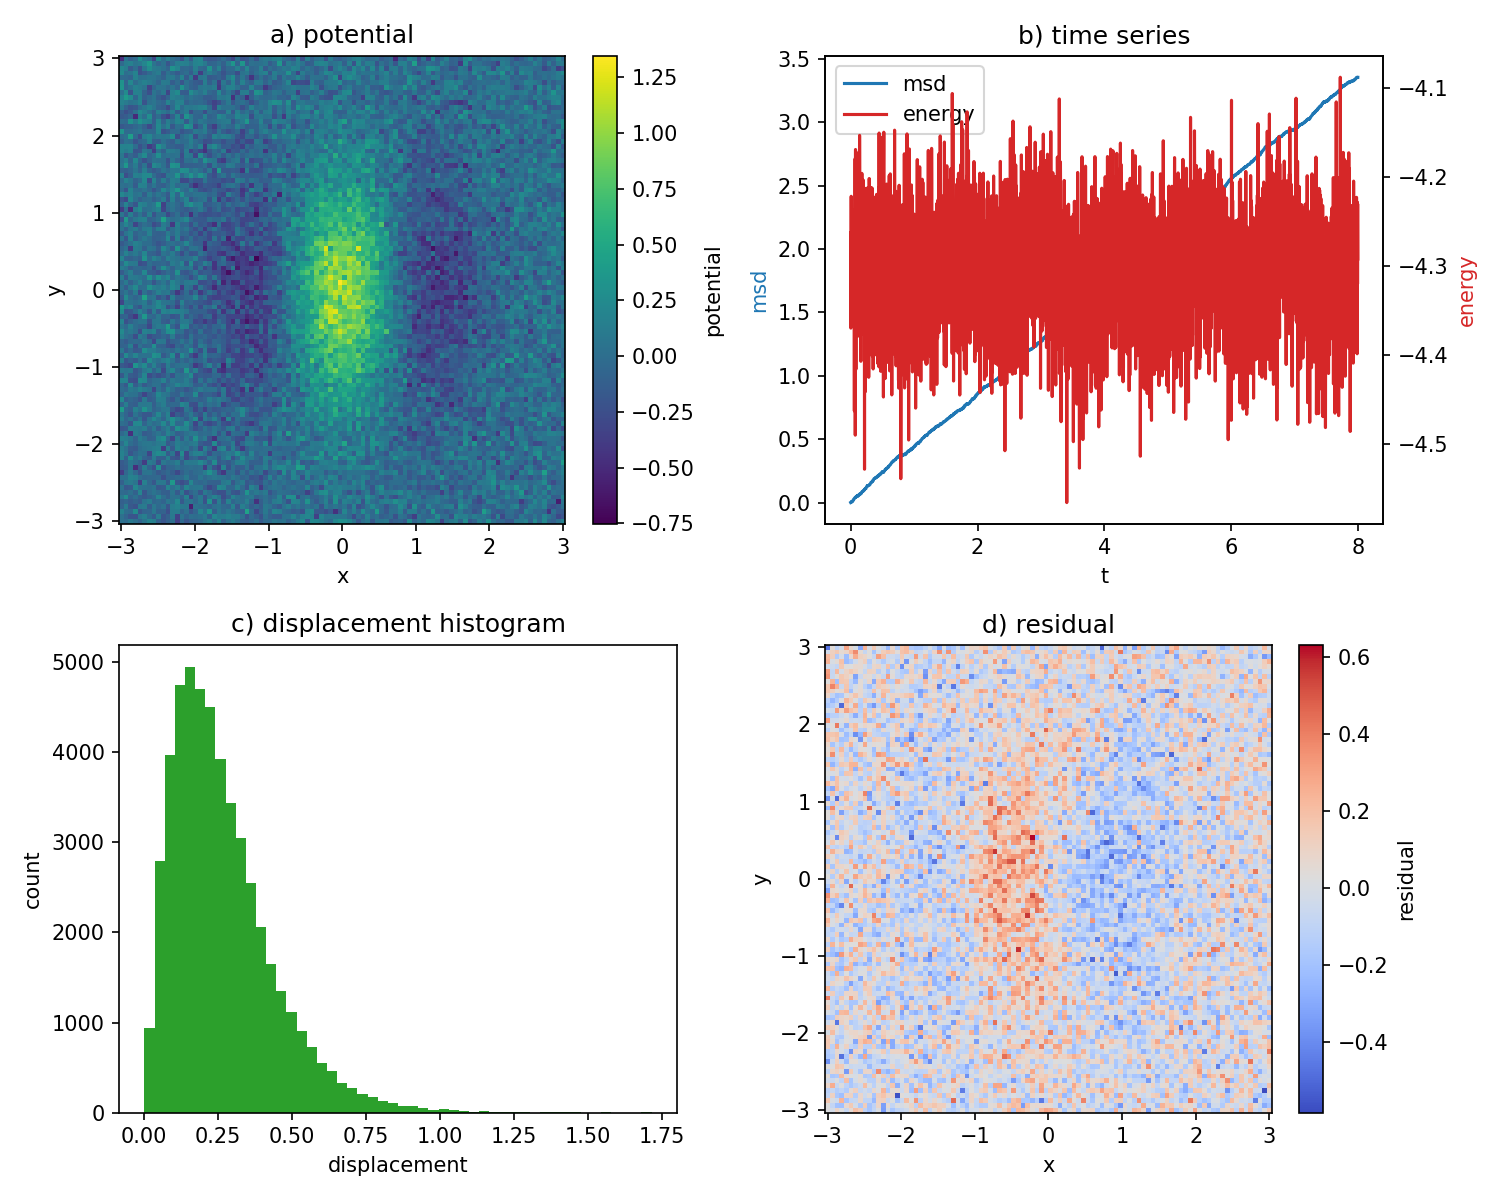
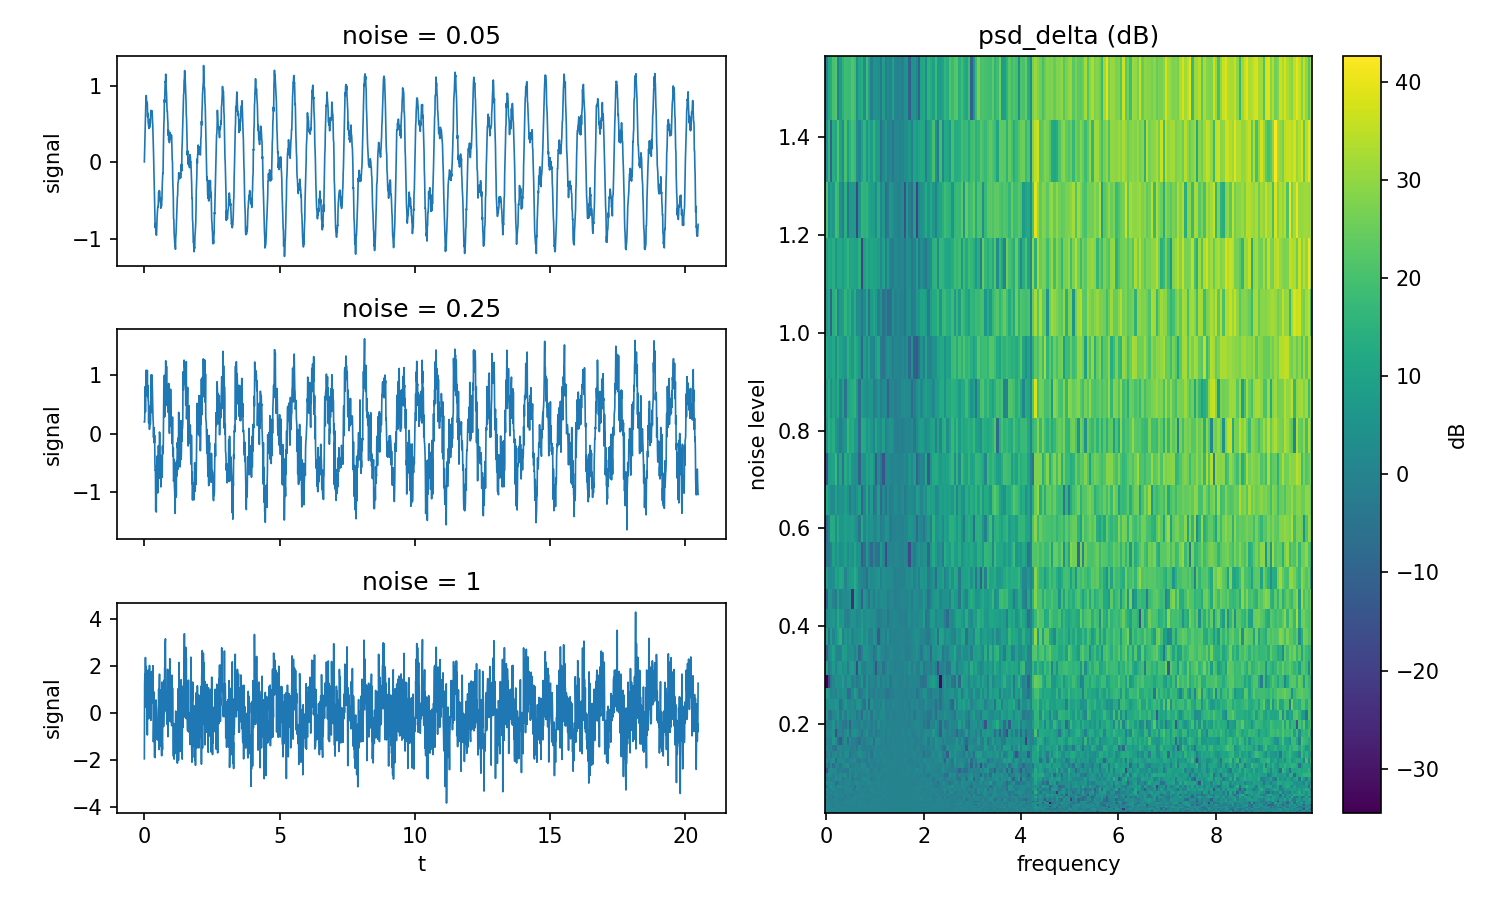
Replace the figure-polish example with a shared-axis case
The four-panel version did not show much: the panels had nothing to share
and the failure was cosmetic. A 3x1 stack of the same observable at three
noise levels plus one tall heatmap makes the difference substantive, since
per-row autoscaling hides the effect the figure exists to show.

diff --git a/examples/figure-polish/plot_polished.py b/examples/figure-polish/plot_polished.py
@@ -6,91 +6,74 @@ import mplpub
 infile = 'data.npz'
 outfile = 'polished.png'
 dpi = 300
-fig_width = 6.6       # double-column
-left_margin = 0.55    # for y label + up to 4-digit tick labels (panel c)
-right_margin = 0.50   # room for panel d) colorbar
-mid_gap = 1.05        # room for panel a) colorbar + tick labels, and panel b)'s tick labels
-top_margin = 0.08     # no title
-row_gap = 0.42         # room for panel a)/b) tick labels
-bottom_margin = 0.40  # for x label + tick labels
-cbar_width = 0.07
-cbar_pad = 0.10
+fig_w, fig_h = 6.6, 2.85
+left_margin = 0.55      # space for left-column y ticks/label
+ts_width = 2.15         # width of the time-series column
+mid_gap = 0.62          # gap between time-series column and heatmap (room for heatmap y ticks)
+map_width = 2.56        # width of the heatmap panel
+cbar_gap = 0.10         # gap between heatmap and colorbar
+cbar_width = 0.12       # colorbar width
+right_margin = 0.42     # space for colorbar tick labels
+bottom_margin = 0.42    # space for shared x label/ticks
+top_margin = 0.06
+row_gap = 0.05           # gap between the 3 stacked time-series panels
+line_color = '#1F77B4'
 
-mplpub.setup()
+mplpub.setup(width=fig_w, height=fig_h)
 
 d = np.load(infile)
-x, y = d['x'], d['y']
-potential, residual = d['potential'], d['residual']
-t, msd, energy = d['t'], d['msd'], d['energy']
-displacement = d['displacement']
+t, traces, trace_noise = d['t'], d['traces'], d['trace_noise']
+freq, map_noise, psd_delta = d['freq'], d['map_noise'], d['psd_delta']
 
-panel = (fig_width - left_margin - mid_gap - right_margin) / 2
-fig_height = 2 * panel + top_margin + row_gap + bottom_margin
+fig = plt.figure(figsize=(fig_w, fig_h), dpi=dpi)
 
-fig = plt.figure(figsize=(fig_width, fig_height))
+# --- left column: 3 stacked time series, sharing x ---
+stack_h = fig_h - bottom_margin - top_margin
+panel_h = (stack_h - 2 * row_gap) / 3
+ymin, ymax = traces.min(), traces.max()
+pad = 0.08 * (ymax - ymin)
 
+axes_ts = []
+for i in range(3):
+    y0 = bottom_margin + i * (panel_h + row_gap)
+    ax = fig.add_axes([left_margin / fig_w, y0 / fig_h,
+                        ts_width / fig_w, panel_h / fig_h])
+    axes_ts.append(ax)
 
-def axes_rect(col, row):
-    x0 = left_margin + col * (panel + mid_gap)
-    y0 = bottom_margin + (1 - row) * (panel + row_gap)
-    return [x0 / fig_width, y0 / fig_height, panel / fig_width, panel / fig_height]
+letters = ['c)', 'b)', 'a)']  # bottom-to-top fill order, top panel is a)
+for i, ax in enumerate(axes_ts):
+    j = 2 - i  # top panel (i=2) shows the lowest noise level, trace index 0
+    ax.plot(t, traces[j], color=line_color, lw=0.6)
+    ax.set_ylim(ymin - pad, ymax + pad)
+    ax.set_xlim(t[0], t[-1])
+    ax.text(0.02, 0.95, f'{letters[i]} $\\sigma={trace_noise[j]:.2f}$',
+            transform=ax.transAxes, va='top', ha='left')
+    if ax is not axes_ts[0]:
+        ax.set_xticklabels([])
 
+axes_ts[0].set_xlabel('time')
+fig.text(0.01, bottom_margin / fig_h + stack_h / fig_h / 2, 'signal',
+         rotation='vertical', va='center', ha='left')
 
-ax_a = fig.add_axes(axes_rect(0, 0))
-ax_b = fig.add_axes(axes_rect(1, 0))
-ax_c = fig.add_axes(axes_rect(0, 1))
-ax_d = fig.add_axes(axes_rect(1, 1))
+# --- right column: one heatmap of psd_delta vs freq and noise level ---
+ax_map = fig.add_axes([(left_margin + ts_width + mid_gap) / fig_w, bottom_margin / fig_h,
+                        map_width / fig_w, stack_h / fig_h])
+ax_cbar = fig.add_axes([(left_margin + ts_width + mid_gap + map_width + cbar_gap) / fig_w,
+                         bottom_margin / fig_h, cbar_width / fig_w, stack_h / fig_h])
 
-extent = [x.min(), x.max(), y.min(), y.max()]
+vmax = np.abs(psd_delta).max()
+im = ax_map.pcolormesh(freq, map_noise, psd_delta,
+                        cmap='RdBu_r', vmin=-vmax, vmax=vmax, shading='nearest')
+ax_map.set_yscale('log')
+ax_map.set_xlabel('frequency')
+ax_map.set_ylabel('noise level $\\sigma$')
+ax_map.text(0.02, 0.97, 'd)', transform=ax_map.transAxes, va='top', ha='left',
+            bbox=dict(boxstyle='square,pad=0.1', fc='white', ec='none', alpha=0.8))
 
-# a) potential heatmap
-vlim_a = np.abs(potential).max()
-im_a = ax_a.imshow(potential, extent=extent, origin='lower', aspect='equal',
-                    cmap='RdBu_r', vmin=-vlim_a, vmax=vlim_a)
-ax_a.set_xlabel(r'$x$')
-ax_a.set_ylabel(r'$y$')
-cax_a = fig.add_axes([(left_margin + panel + cbar_pad) / fig_width,
-                       axes_rect(0, 0)[1],
-                       cbar_width / fig_width,
-                       panel / fig_height])
-fig.colorbar(im_a, cax=cax_a)
-ax_a.text(0.05, 0.95, 'a) potential', transform=ax_a.transAxes, va='top', ha='left',
-          bbox={'facecolor': 'white', 'alpha': 0.7, 'pad': 1.5, 'edgecolor': 'none'})
+cbar = fig.colorbar(im, cax=ax_cbar)
+cbar.set_label('PSD change (dB)')
 
-# b) time series: msd and energy share a time axis but not a scale
-l1, = ax_b.plot(t, msd, color=mplpub.tableau['blue'], label='MSD')
-ax_b.set_xlabel(r'$t$')
-ax_b.set_ylabel(r'MSD')
-ax_b2 = ax_b.twinx()
-l2, = ax_b2.plot(t, energy, color=mplpub.tableau['orange'], label='energy')
-ax_b2.set_ylabel(r'energy')
-ax_b2.legend(handles=[l1, l2], loc='upper left', bbox_to_anchor=(0.0, 0.88),
-             frameon=True, facecolor='white', edgecolor='none', framealpha=0.9,
-             handlelength=1.5, borderaxespad=0.1)
-ax_b.text(0.05, 0.98, 'b)', transform=ax_b.transAxes, va='top', ha='left')
+fig.align_ylabels(axes_ts + [ax_map])
 
-# c) histogram of displacement
-ax_c.hist(displacement, bins=40, color=mplpub.tableau['blue'])
-ax_c.set_xlabel(r'displacement')
-ax_c.set_ylabel(r'count')
-ax_c.text(0.85, 0.95, 'c)', transform=ax_c.transAxes, va='top', ha='right')
-
-# d) residual heatmap
-vlim_d = np.abs(residual).max()
-im_d = ax_d.imshow(residual, extent=extent, origin='lower', aspect='equal',
-                    cmap='RdBu_r', vmin=-vlim_d, vmax=vlim_d)
-ax_d.set_xlabel(r'$x$')
-ax_d.set_ylabel(r'$y$')
-cax_d = fig.add_axes([(left_margin + panel + mid_gap + panel + cbar_pad) / fig_width,
-                       axes_rect(1, 1)[1],
-                       cbar_width / fig_width,
-                       panel / fig_height])
-fig.colorbar(im_d, cax=cax_d)
-ax_d.text(0.05, 0.95, 'd) residual', transform=ax_d.transAxes, va='top', ha='left',
-          bbox={'facecolor': 'white', 'alpha': 0.7, 'pad': 1.5, 'edgecolor': 'none'})
-
-fig.align_ylabels([ax_a, ax_c])
-fig.align_ylabels([ax_b, ax_d])
-fig.align_xlabels([ax_a, ax_c, ax_b, ax_d])
-
-plt.savefig(outfile, dpi=dpi)
+fig.savefig(outfile, dpi=dpi)
+print(f'wrote {outfile}')

diff --git a/examples/figure-polish/make_data.py b/examples/figure-polish/make_data.py
@@ -2,28 +2,41 @@ import numpy as np
 
 # parameters
 seed = 0
-grid = 96
-nsteps = 4000
-dt = 0.002
-nsamples = 50000
+dt = 0.01
+nsteps = 2048
+amplitudes = [0.80, 0.35]
+frequencies = [1.5, 4.2]
+trace_noise = [0.05, 0.25, 1.00]
+map_noise = np.logspace(np.log10(0.02), np.log10(1.5), 48)
+fmax = 10.0
 outfile = 'data.npz'
 
 rng = np.random.default_rng(seed)
 
-x = np.linspace(-3, 3, grid)
-y = np.linspace(-3, 3, grid)
-X, Y = np.meshgrid(x, y)
-potential = np.exp(-(X**2 + Y**2) / 2) * np.cos(2 * X) + 0.15 * rng.standard_normal((grid, grid))
-residual = potential - np.exp(-(X**2 + Y**2) / 1.6) * np.cos(2 * X - 0.3)
-
 t = np.arange(nsteps) * dt
-msd = 0.42 * t + 0.03 * np.cumsum(rng.standard_normal(nsteps)) * np.sqrt(dt)
-energy = -4.31 + 0.06 * rng.standard_normal(nsteps) + 0.02 * np.sin(2 * np.pi * t / 1.3)
+clean = sum(a * np.sin(2 * np.pi * f * t) for a, f in zip(amplitudes, frequencies))
 
-displacement = rng.gamma(2.4, 0.11, nsamples)
+traces = np.array([clean + s * rng.standard_normal(nsteps) for s in trace_noise])
 
-np.savez(outfile, x=x, y=y, potential=potential, residual=residual,
-         t=t, msd=msd, energy=energy, displacement=displacement)
-print(f'{outfile}: potential {potential.shape}, residual {residual.shape} '
-      f'in [{residual.min():.2f}, {residual.max():.2f}], t {t.shape}, '
-      f'displacement {displacement.shape}')
+freq_all = np.fft.rfftfreq(nsteps, dt)
+keep = freq_all <= fmax
+freq = freq_all[keep]
+
+
+def psd(x):
+    return np.abs(np.fft.rfft(x))**2 / nsteps
+
+
+psd_clean = psd(clean)[keep]
+floor = 1e-6
+psd_delta = np.array([
+    10 * np.log10((psd(clean + s * rng.standard_normal(nsteps))[keep] + floor)
+                  / (psd_clean + floor))
+    for s in map_noise])
+
+np.savez(outfile, t=t, clean=clean, traces=traces, trace_noise=trace_noise,
+         freq=freq, map_noise=map_noise, psd_delta=psd_delta)
+print(f'{outfile}: traces {traces.shape} at noise {trace_noise}, '
+      f'signal range [{traces.min():.2f}, {traces.max():.2f}], '
+      f'psd_delta {psd_delta.shape} in [{psd_delta.min():.1f}, {psd_delta.max():.1f}] dB, '
+      f'freq up to {freq[-1]:.1f}')

diff --git a/examples/figure-polish/plot_plain.py b/examples/figure-polish/plot_plain.py
@@ -2,46 +2,36 @@ import numpy as np
 import matplotlib.pyplot as plt
 
 data = np.load("data.npz")
-x = data["x"]
-y = data["y"]
-potential = data["potential"]
-residual = data["residual"]
 t = data["t"]
-msd = data["msd"]
-energy = data["energy"]
-displacement = data["displacement"]
+traces = data["traces"]
+trace_noise = data["trace_noise"]
+freq = data["freq"]
+map_noise = data["map_noise"]
+psd_delta = data["psd_delta"]
 
-fig, axes = plt.subplots(2, 2, figsize=(10, 8))
+fig, axes = plt.subplot_mosaic(
+    [["ts0", "map"], ["ts1", "map"], ["ts2", "map"]],
+    figsize=(10, 6),
+)
 
-ax = axes[0, 0]
-im = ax.pcolormesh(x, y, potential, shading="auto", cmap="viridis")
-fig.colorbar(im, ax=ax, label="potential")
-ax.set_xlabel("x")
-ax.set_ylabel("y")
-ax.set_title("a) potential")
+ts_axes = [axes["ts0"], axes["ts1"], axes["ts2"]]
+for i, ax in enumerate(ts_axes):
+    ax.plot(t, traces[i], color="C0", linewidth=0.8)
+    ax.set_ylabel("signal")
+    ax.set_title(f"noise = {trace_noise[i]:.3g}")
+    if ax is ts_axes[-1]:
+        ax.set_xlabel("t")
+    else:
+        ax.set_xticklabels([])
 
-ax = axes[0, 1]
-ax2 = ax.twinx()
-l1, = ax.plot(t, msd, color="tab:blue", label="msd")
-l2, = ax2.plot(t, energy, color="tab:red", label="energy")
-ax.set_xlabel("t")
-ax.set_ylabel("msd", color="tab:blue")
-ax2.set_ylabel("energy", color="tab:red")
-ax.legend(handles=[l1, l2], loc="best")
-ax.set_title("b) time series")
-
-ax = axes[1, 0]
-ax.hist(displacement, bins=50, color="tab:green")
-ax.set_xlabel("displacement")
-ax.set_ylabel("count")
-ax.set_title("c) displacement histogram")
-
-ax = axes[1, 1]
-im = ax.pcolormesh(x, y, residual, shading="auto", cmap="coolwarm")
-fig.colorbar(im, ax=ax, label="residual")
-ax.set_xlabel("x")
-ax.set_ylabel("y")
-ax.set_title("d) residual")
+ax_map = axes["map"]
+im = ax_map.pcolormesh(
+    freq, map_noise, psd_delta, shading="auto", cmap="viridis"
+)
+ax_map.set_xlabel("frequency")
+ax_map.set_ylabel("noise level")
+ax_map.set_title("psd_delta (dB)")
+fig.colorbar(im, ax=ax_map, label="dB")
 
 fig.tight_layout()
 fig.savefig("plain.png", dpi=150)

diff --git a/examples/figure-polish/README.md b/examples/figure-polish/README.md
@@ -1,50 +1,53 @@
 # figure-polish: the same request, with and without the skill
 
-One sloppily written figure request, given to two independent Sonnet agents on the same data.
+One loosely written figure request, given to two independent Sonnet agents on the same data.
 The first was told to write the plotting code the way it normally would.
 The second was told to invoke the `figure-polish` skill and follow it, including its rule that nothing is reported as finished before the rendered image has been looked at.
 
-`make_data.py` writes `data.npz`, the input for both scripts: a signed potential on a 96x96 grid, an MSD and energy trace over 4000 steps, a residual field, and 50000 displacement samples.
+`make_data.py` writes `data.npz`: one periodic signal sampled at three noise levels (sigma 0.05, 0.25, 1.00), and the change in power spectral density, in dB, caused by noise, over 48 noise levels.
+The three traces differ only in noise amplitude, and the PSD change is signed.
 
 ## Without the skill
 
 ```
-plot a figure with 2x2 layout subplots, a) heatmap X, Y where Z is the potential,
-b) is time-series data (msd and energy), c) is histogram of displacement and
-d) is another heatmap with the residual, data is in data.npz
+make a figure, 2 columns, left column is a 3x1 stack of the signal time series
+at the 3 noise levels, right column is one big heatmap of psd_delta vs
+frequency and noise level, data is in data.npz
 ```
 
 Produced by [`plot_plain.py`](plot_plain.py):
 
 ![figure without the skill](plain.png)
 
-15 by 12 inches, so every font comes out tiny once the figure is scaled into a column.
-A title on each panel duplicating what the axis or the caption already says.
-Two fat colorbars, one of them on a signed field with a sequential colormap whose zero sits at no particular colour.
-The MSD line, the point of panel b), is buried under 4000 steps of energy noise drawn on top of it.
-Panel c) has no colorbar and panel a) does, so the two columns do not line up.
+Each row autoscales to its own y range, ±1.2, ±1.6 and ±4.
+The top two rows therefore look about equally noisy, when the noise in the second is five times the first.
+The one thing the figure exists to show, how the signal degrades with noise, is the one thing this hides.
+
+Around it: a title on every row repeating the noise level, the y label written out three times, three sets of x tick labels for one shared time axis, a sequential colormap on a signed quantity so zero change sits at no particular colour, a fat colorbar, and 15 by 8 inches of canvas, which shrinks every font once the figure is scaled into a column.
 
 ## With the skill
 
 ```
 [figure-polish skill loaded]
 
-plot a figure with 2x2 layout subplots, a) heatmap X, Y where Z is the potential,
-b) is time-series data (msd and energy), c) is histogram of displacement and
-d) is another heatmap with the residual, data is in data.npz
+make a figure, 2 columns, left column is a 3x1 stack of the signal time series
+at the 3 noise levels, right column is one big heatmap of psd_delta vs
+frequency and noise level, data is in data.npz
 ```
 
 Produced by [`plot_polished.py`](plot_polished.py):
 
 ![figure with the skill](polished.png)
 
-6.6 inches wide, the double-column width, at 300 dpi, with the panels placed by hand through `fig.add_axes` so the colorbars do not pull the columns out of alignment.
-`mplpub.setup()` sizes the fonts, so they are legible at the real width and no `fontsize=` appears in the script.
-Both signed fields get a diverging colormap on a scale symmetric about zero, with white at zero.
-Panel letters sit inside the axes, clear of the data, with the quantity folded into the letter instead of a title.
-Colorbars are thin, and the figure carries no title.
+One y range across the three rows, so sigma = 0.05 reads as a clean oscillation and sigma = 1.00 as noise with a signal in it.
+One shared time axis with tick labels on the bottom row only, one y label for the column, and the noise level folded into the panel letter instead of a title.
+The PSD change gets a diverging colormap on a scale symmetric about zero, so the sign is readable and white means no change, and the noise axis is logarithmic because the levels are spaced that way.
+6.6 inches wide, the double-column width, at 300 dpi, with the panels placed by hand through `fig.add_axes` so the colorbar does not pull the columns out of alignment, and the heatmap height matched to the full stack.
 
-The script's own shape also differs: every margin, gap and colorbar width is a named parameter at the top, which is what made the five rounds of render-and-look cheap.
+The scripts differ in shape too: every margin, gap and colorbar width in `plot_polished.py` is a named parameter at the top, which is what makes a round of render-and-look cheap.
+
+One correction the verification rule caught: an earlier draft cropped the frequency axis to 8, on the assumption that only the two signal peaks mattered.
+Checking the data showed the largest changes sit between 8 and 10, so the crop came out.
 
 ## Reproduce
 
